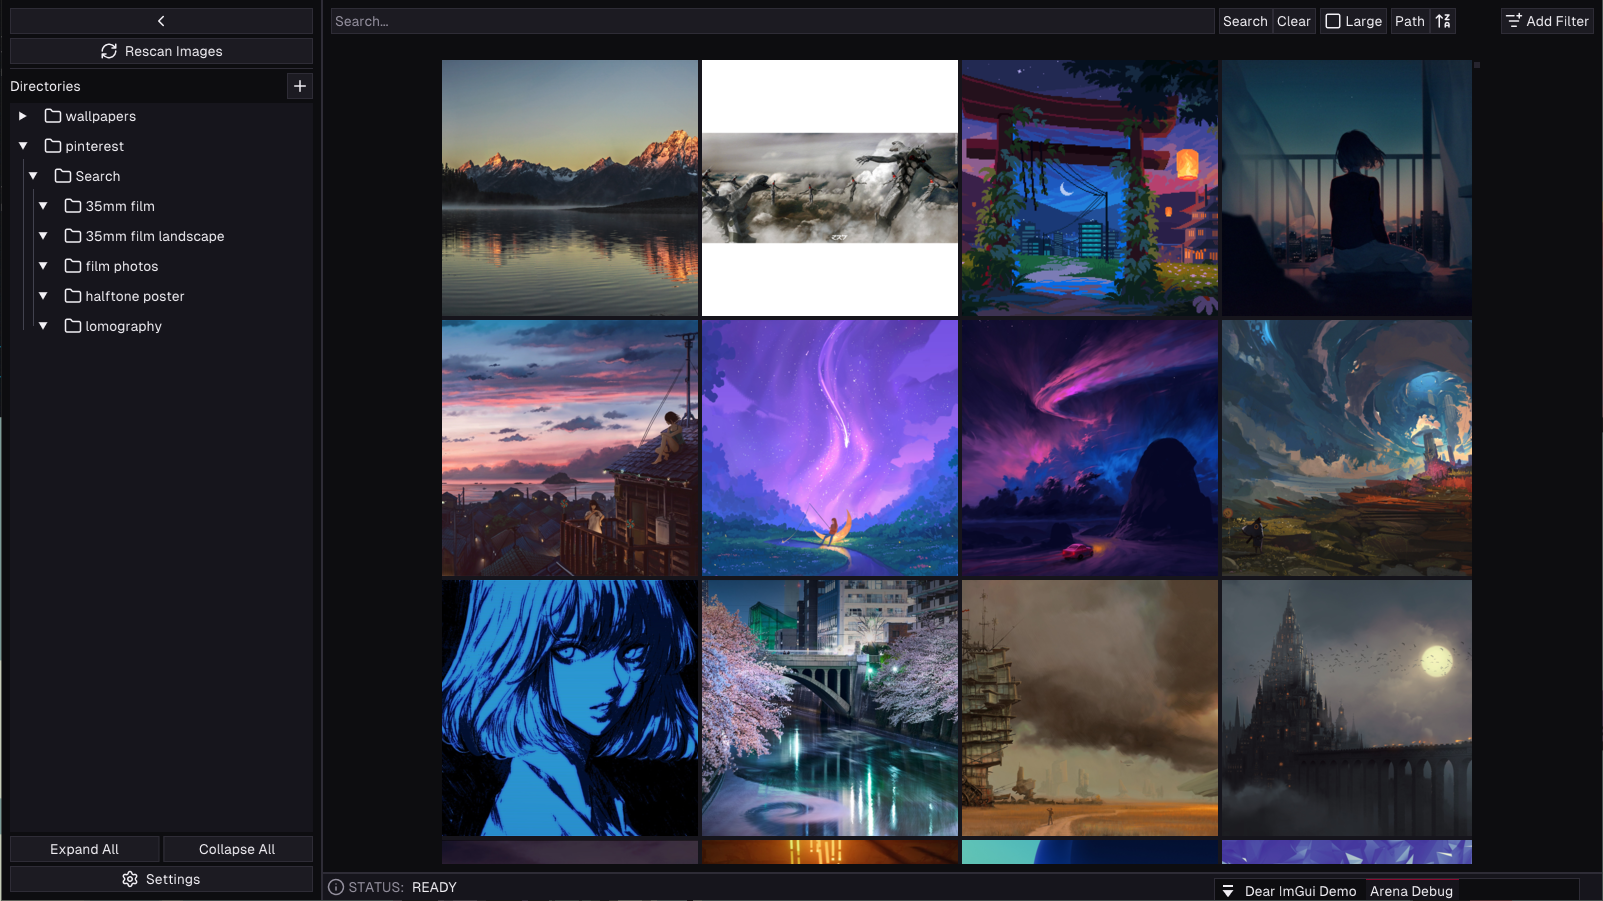
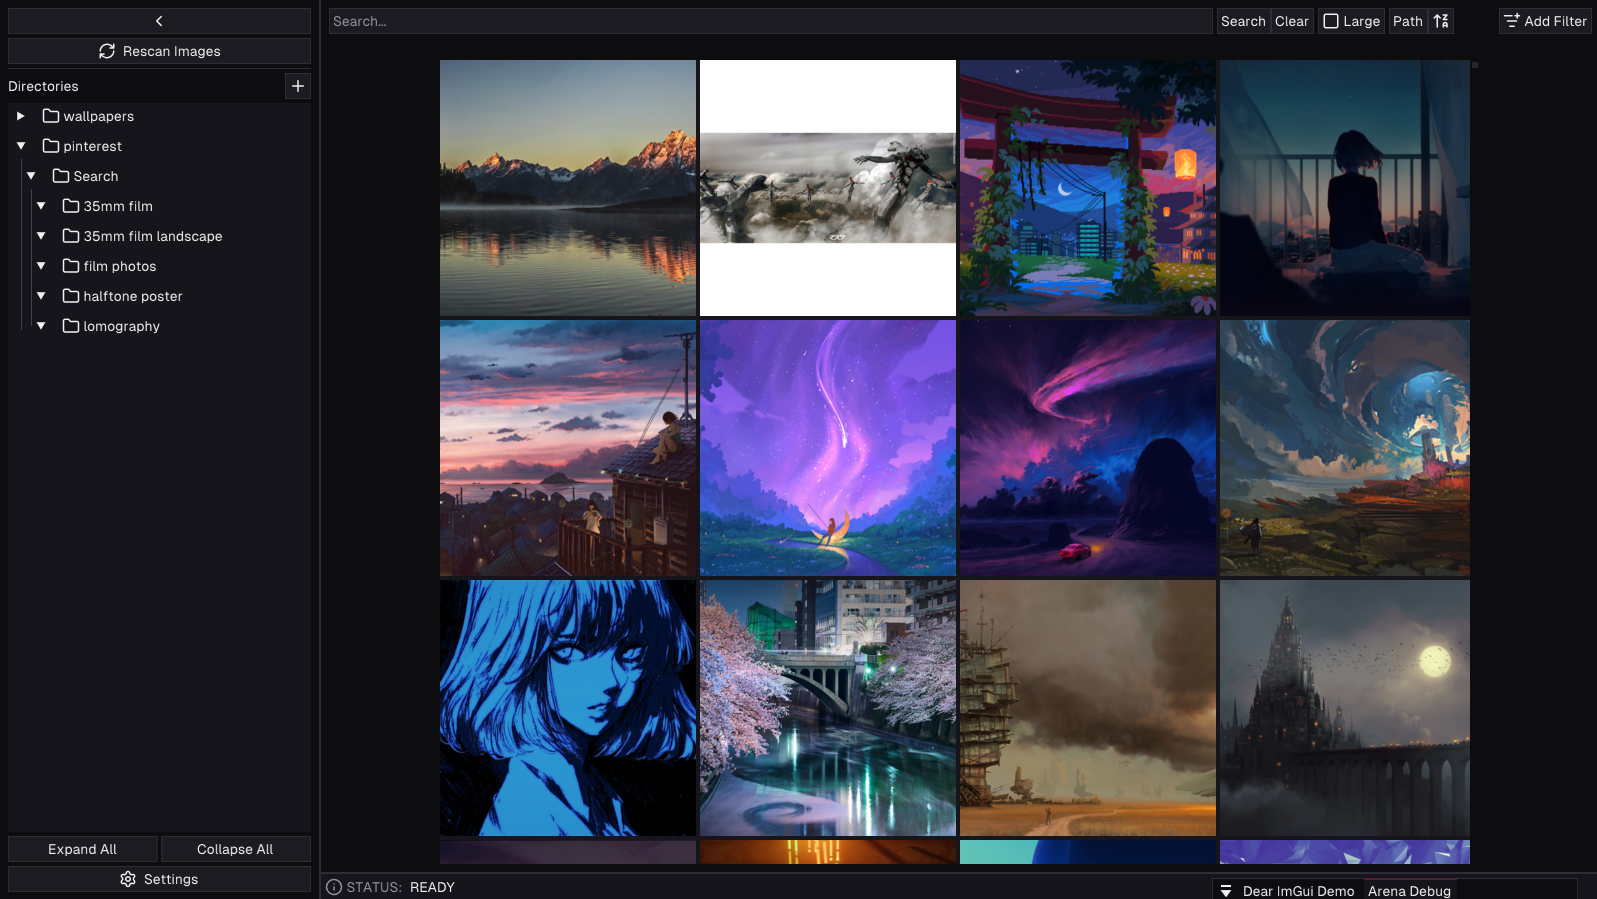
docs: update README.md

diff --git a/README.md b/README.md
@@ -1,92 +1,95 @@
 # Miscible
 
-Miscible is a smart (and personal) photo gallery. It aims to provide image gallery features provided by (Web based) applications like Google Photos, Windows Photos, etc, while keeping everything running locally (and smoothly).
+<p align="center">
+    <img width="80%" src="docs/Header.png" alt="Miscible Header">
+</p>
+
+**Miscible** is a next-generation, high-performance gallery application which brings on device semantic search and extensive filtering features to your local media. Built in C++, it delivers lightning-fast responsiveness and an incredibly light footprint all within a ~8MB binary. It brings the advanced features typically locked behind cloud-based commercial products like Google Photos, OneDrive, and Microsoft Photos to your local machine, completely offline and privacy-first.
 
 <p align="center">
     <img src="docs/Screenshot.png" alt="Miscible Screenshot">
-</p>
-<p align="center">
     <i>Miscible running on Windows 10</i>
 </p>
 
-> [!CAUTION]
-> Miscible is still very much under development. Many of the (even basic) features can cause crashes.
+### Why Miscible?
+*I made this because nothing like this exists and I love taking pictures 📸*
 
-## Features
+> [!NOTE]
+> **Development Status:** Miscible is currently in an active alpha stage, things are expected to fail/break. Make sure to report any findings on the [issues](https://github.com/mdhvg/miscible/issues) page.
 
-- **Automatic directory scanning**
-- **Image thumbnail atlas generation for fast preview load**
-- **Automatic image embedding creation**
+## Development
 
-## Building
-
-> Currently there are only ways to build and no installation method on any OS.
+Miscible only supports Windows and Linux because these are the only operating systems I have available, out of which Windows is the one I actively use to develop Miscible (for now), so **Linux build is currently broken and outdated**. *(contributions are welcome)*
 
 ### Requirements
 
-- git
-- cmake
-- gcc or msvc (on Windows)
-- python3 + python3-requests (maybe in a virtual environment)
+- [git](https://git-scm.com/)
+- [cmake](https://cmake.org)
+- [python3](https://www.python.org/) ([uv](https://docs.astral.sh/uv/) preferred)
 
-- Clone the repo
+### Setup
 
+- Recursively Clone the repo
 ```bash
 git clone --recursive https://github.com/mdhvg/miscible
 cd miscible
-
 ```
 
 - Run the setup script
-
 ```bash
 python3 ./scripts/setup.py
-
 ```
 
-- Run the build script
-
-*Linux*
+**OR**
 
 ```bash
-bash ./scripts/build.sh
-
+uv run ./scripts/setup.py
 ```
 
-*Windows*
+### Build - Windows
+
+Build script automatically detects installed compiler. Supported ones are [msvc](https://visualstudio.microsoft.com/vs/features/cplusplus) and [clang-cl](https://clang.llvm.org). `Miscible.exe` is built in `(project root)/build` directory.
+
 ```powershell
-.\scripts\build.ps1
-
+./scripts/build.ps1 [debug|release] [msvc|clang-cl]
 ```
+
+### Build - Linux
+
+_TODO_
 
 ## Usage
 
-Binary is built in the `./build` directory and can be ran from there.
+- From the first launch, Miscible will start downloading the [`laion/CLIP-ViT-B-32-laion2B-s34B-b79K`](https://huggingface.co/laion/CLIP-ViT-B-32-laion2B-s34B-b79K) automatically in the background.
+- To get some images displaying in Miscible, click the ➕ button in the sidebar and select an and let it automatically scan the directories and populate the thumbnail previews.
 
-Setup script doesn't automatically download the CLIP model, so it can be manually downloaded from [Hugging Face🤗](https://huggingface.co/laion/CLIP-ViT-B-32-laion2B-s34B-b79K) and placed at `(project root)/CLIP-ViT-B-32-laion2B-s34B-b79K.gguf`.
+<p align="center">
+    <img src="docs/Step-AddImages.png" alt="Add images to miscible">
+</p>
 
-#### Usage Options
+- Use the **Search/Sort/Add Filter** buttons according to requirements to view results with different constraints (inclusion or exclusion).
 
-Normal run
+<p align="center">
+    <img width="90%" src="docs/Step-SearchQuery.png" alt="Query Images in miscible">
+</p>
 
-```bash
-./build/Miscible
-```
+- Press **Clear** button to go back to viewing all images again.
 
-Skip embeddings
+## Found bugs?
 
-```bash
-./build/Miscible --no-embed
-```
+Create an [issue](https://github.com/mdhvg/miscible/issues) and paste in the logs relevant to that bug.
+
+| Operating System | Log file location               |
+| :--------------- | :------------------------------ |
+| **Windows**      | `%LOCALAPPDATA%/Miscible/logs/` |
+| **Linux**        | `~/.local/share/Miscible/logs/` |
 
 ## Credits
 
 Although there are many things that need refactoring to follow the style (#TODO), the code style and build procedure in this software is heavily inspired by [@Casey Muratori's](https://caseymuratori.com/about) [Handmade Hero series](https://hero.handmade.network) ([YouTube](https://www.youtube.com/watch?v=Ee3EtYb8d1o)).
 
 A lot of core code snippets come from [EpicGamesExt/raddebugger](https://github.com/EpicGamesExt/raddebugger).
-
 ### Other sources which were referenced
 
-- `src/base/arena.*` from [Enter The Arena: Simplifying Memory Management (2023)](https://www.youtube.com/watch?v=TZ5a3gCCZYo) by [@Ryan Fleury](https://x.com/rfleury).
-- `src/base/arena.*` also from [tsoding/arena](https://github.com/tsoding/arena) by [@tsoding](https://www.twitch.tv/tsoding).
+- `src/base/arena.*` from [Enter The Arena: Simplifying Memory Management (2023)](https://www.youtube.com/watch?v=TZ5a3gCCZYo) by [@Ryan Fleury](https://x.com/rfleury) and from [tsoding/arena](https://github.com/tsoding/arena) by [@tsoding](https://www.twitch.tv/tsoding).
 - `src/base/string.*`, `src/base/array.h` from [Vjekoslav Krajačić – File Pilot: Inside the Engine – BSC 2025](https://youtube.com/watch?v=bUOOaXf9qIM) at [@BSC](https://www.youtube.com/@BetterSoftwareConference) 2025 talk by [@Vjekoslav Krajačić](https://x.com/vkrajacic).
